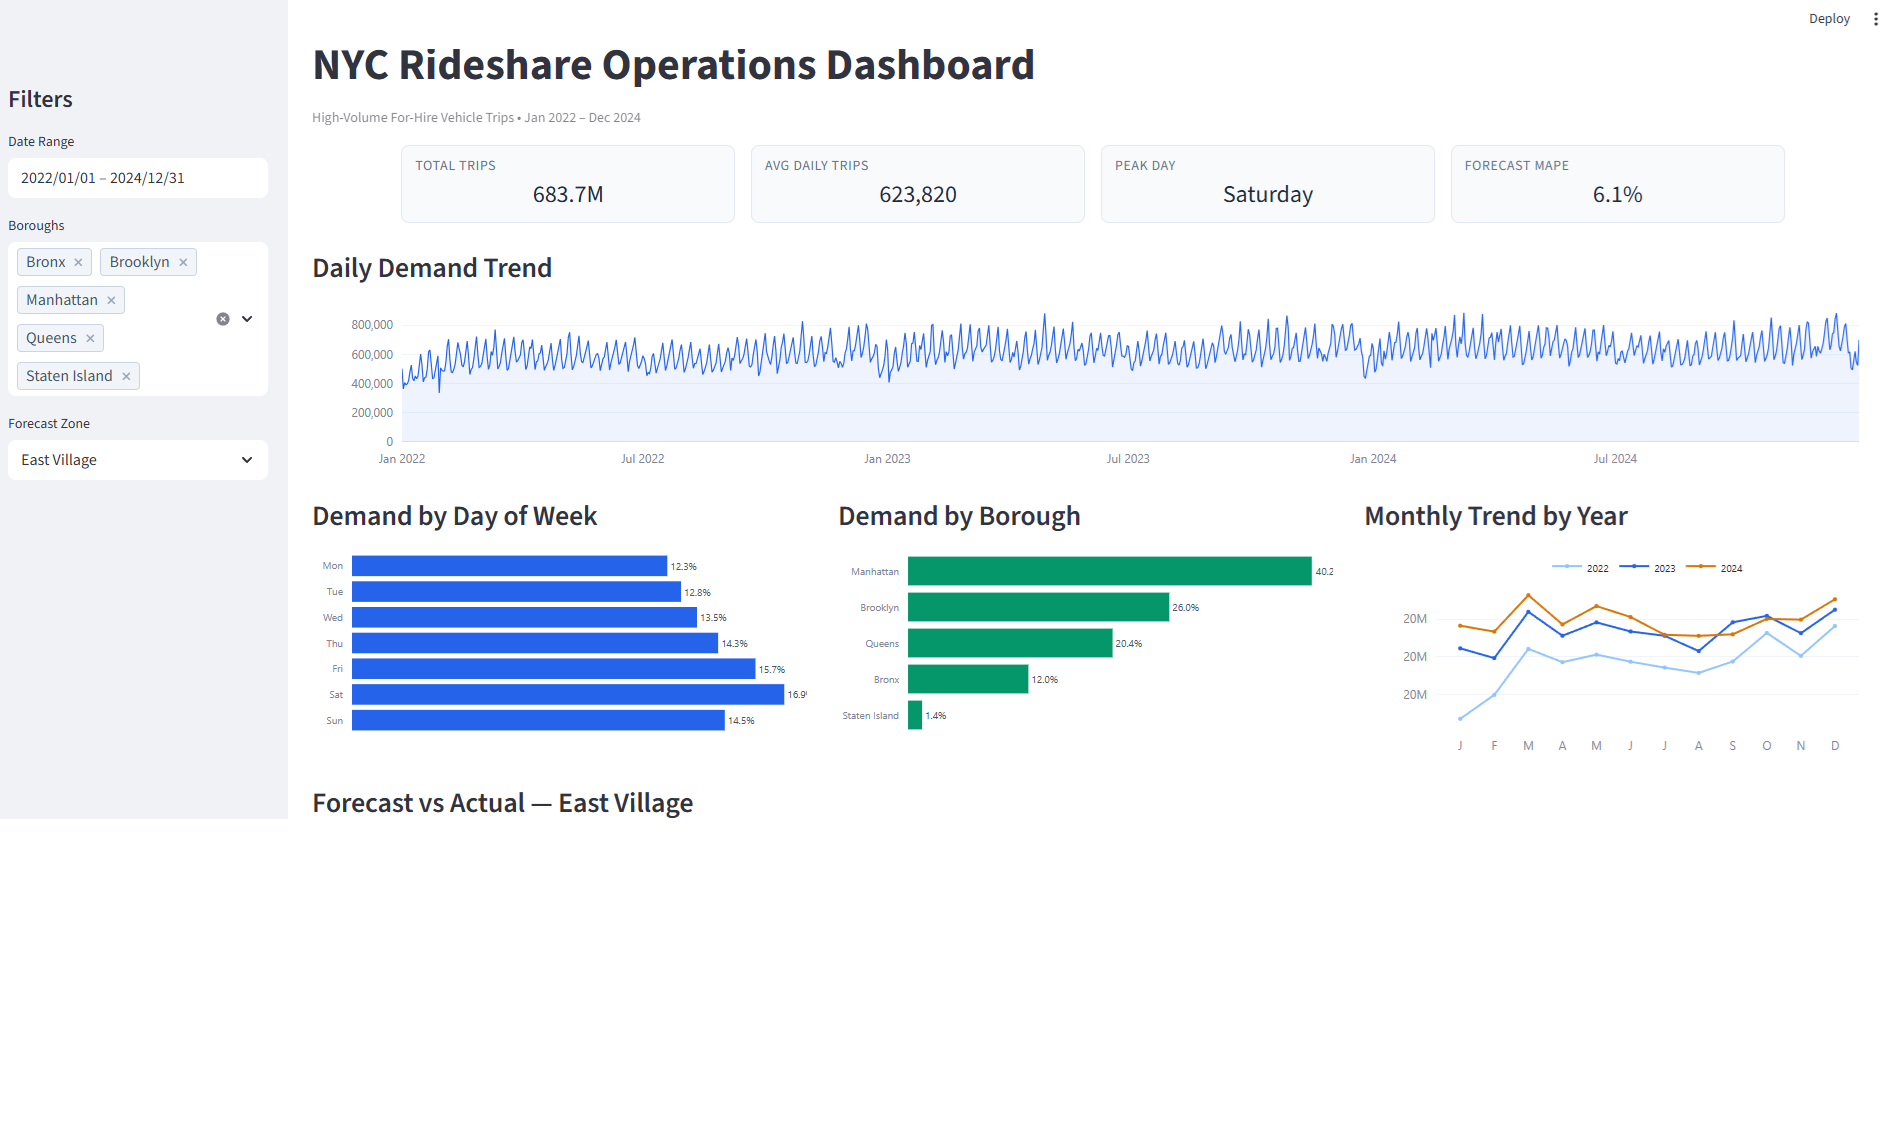
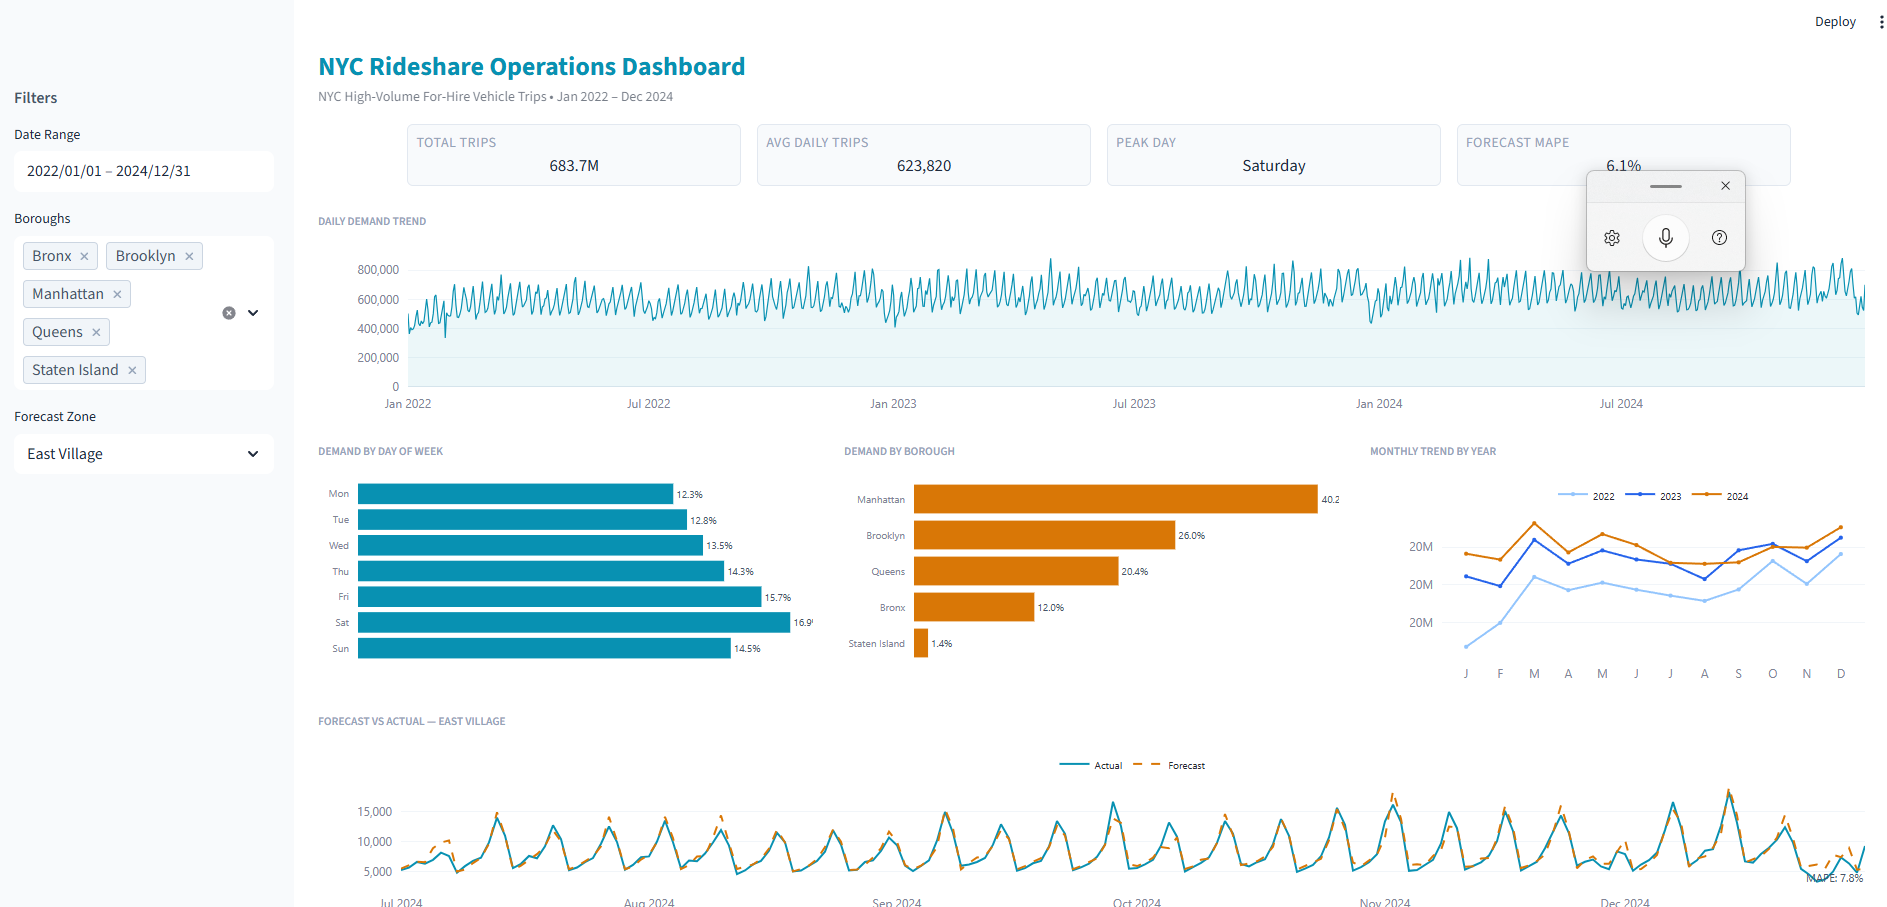
Added info for explorer app in readme

diff --git a/app/dashboard.py b/app/dashboard.py
@@ -21,6 +21,8 @@ st.set_page_config(
 # Color palette
 BLUE = "#2563EB"
 BLUE_LIGHT = "#93C5FD"
+TEAL = "#0891B2"
+TEAL_LIGHT = "#67E8F9"
 SLATE = "#475569"
 EMERALD = "#059669"
 AMBER = "#D97706"
@@ -28,17 +30,29 @@ AMBER = "#D97706"
 # Compact CSS for single-screen fit
 st.markdown(
     """<style>
-    .block-container {padding:0.8rem 1.5rem 0rem 1.5rem;}
-    h1 {margin:0 0 0.1rem 0; font-size:1.5rem; color:#1E293B;}
-    h3 {margin:0.3rem 0 0 0; font-size:0.85rem; color:#475569; font-weight:600;}
-    .stCaption {margin:0; padding:0;}
-    .stCaption p {color:#94A3B8; font-size:0.7rem;}
-    [data-testid="stMetric"] {
-        background:#F8FAFC; border:1px solid #E2E8F0; border-radius:8px;
-        padding:0.5rem 0.8rem; text-align:center;
+    .block-container {padding:0.8rem 1.5rem 0rem 1.5rem; padding-top:2.5rem;}
+    h2, h3 {
+        margin: 0.4rem 0 0 0;
+        font-size: 0.72rem !important;
+        color: #94A3B8 !important;
+        font-weight: 600;
+        text-transform: uppercase;
+        letter-spacing: 0.07em;
     }
-    [data-testid="stMetricValue"] {font-size:1.5rem; color:#1E293B; justify-content:center;}
-    [data-testid="stMetricLabel"] {font-size:0.7rem; color:#64748B; justify-content:center; text-transform:uppercase; letter-spacing:0.05em;}
+    section[data-testid="stSidebar"] h1 {font-size:1rem !important; color:#475569 !important;}
+    .stCaption {margin:0; padding:0;}
+    .stCaption p {
+        color: #94A3B8;
+        font-size: 0.7rem;
+        margin-top: 0.25rem;
+        margin-bottom: 0.4rem;
+    }
+    [data-testid="stMetric"] {
+        background:#F8FAFC; border:1px solid #E2E8F0; border-radius:6px;
+        padding:0.3rem 0.5rem; text-align:center;
+    }
+    [data-testid="stMetricValue"] {font-size:1.05rem !important; font-weight:400 !important; color:#1E293B !important; justify-content:center;}
+    [data-testid="stMetricLabel"] {font-size:0.6rem !important; color:#94A3B8 !important; justify-content:center; text-transform:uppercase; letter-spacing:0.05em;}
     [data-testid="stVerticalBlock"] > div {gap:0.3rem;}
     [data-testid="stHorizontalBlock"] > div {gap:0.5rem;}
     .element-container {margin-bottom:0 !important;}
@@ -128,8 +142,13 @@ filtered = zone_daily[mask]
 # ---------------------------------------------------------------------------
 # Header + KPIs
 # ---------------------------------------------------------------------------
-st.title("NYC Rideshare Operations Dashboard")
-st.caption(f"High-Volume For-Hire Vehicle Trips  \u2022  {start_date:%b %Y} \u2013 {end_date:%b %Y}")
+st.markdown(
+    '<p style="font-size:1.625rem; font-weight:700; color:#0891B2; '
+    'margin:0 0 0.1rem 0; line-height:1.4;">'
+    'NYC Rideshare Operations Dashboard</p>',
+    unsafe_allow_html=True,
+)
+st.caption(f"NYC High-Volume For-Hire Vehicle Trips  \u2022  {start_date:%b %Y} \u2013 {end_date:%b %Y}")
 
 daily_totals = filtered.groupby("date")["daily_trips"].sum()
 total_trips = filtered["daily_trips"].sum()
@@ -154,8 +173,8 @@ daily_ts.columns = ["date", "trips"]
 fig_trend = go.Figure()
 fig_trend.add_trace(go.Scatter(
     x=daily_ts["date"], y=daily_ts["trips"],
-    mode="lines", line=dict(color=BLUE, width=1.2),
-    fill="tozeroy", fillcolor="rgba(37,99,235,0.08)",
+    mode="lines", line=dict(color=TEAL, width=1.2),
+    fill="tozeroy", fillcolor="rgba(8,145,178,0.08)",
     hovertemplate="%{x|%b %d, %Y}<br>%{y:,.0f} trips<extra></extra>",
 ))
 fig_trend.update_layout(
@@ -189,7 +208,7 @@ with col_a:
         x=dow["trips"], y=dow["label"], orientation="h",
         text=dow["pct"].apply(lambda v: f"{v:.1f}%"),
         textposition="outside", textfont=dict(size=10, color=SLATE),
-        marker_color=BLUE,
+        marker_color=TEAL,
     ))
     fig_dow.update_layout(
         height=210, margin=CHART_MARGIN, font=CHART_FONT,
@@ -214,7 +233,7 @@ with col_b:
         x=borough_trips["trips"], y=borough_trips["borough"], orientation="h",
         text=borough_trips["pct"].apply(lambda v: f"{v:.1f}%"),
         textposition="outside", textfont=dict(size=10, color=SLATE),
-        marker_color=EMERALD,
+        marker_color=AMBER,
     ))
     fig_boro.update_layout(
         height=210, margin=CHART_MARGIN, font=CHART_FONT,
@@ -271,7 +290,7 @@ fig_fc = go.Figure()
 fig_fc.add_trace(go.Scatter(
     x=zone_fc["date"], y=zone_fc["actual"],
     name="Actual", mode="lines",
-    line=dict(color=BLUE, width=2),
+    line=dict(color=TEAL, width=2),
 ))
 fig_fc.add_trace(go.Scatter(
     x=zone_fc["date"], y=zone_fc["forecast"],

diff --git a/README.md b/README.md
@@ -24,7 +24,7 @@ The analysis follows a four-stage notebook pipeline.
 3. **Exploratory Analysis** — Examine demand patterns for seasonality, trend, and cross-zone correlation
 4. **Demand Forecasting** — Evaluate three models, select the best performer, scale model across selected zones
 
-The project also includes an interactive Streamlit dashboard showing KPIs, demand charts, and zone-level forecast accuracy (see [below](#streamlit-dashboard)).
+The project also includes two interactive Streamlit applications for visualizing results and exploring the full dataset (see [Interactive Apps](#interactive-apps)).
 
 ---
 
@@ -47,9 +47,13 @@ Model performance was evaluated using mean absolute percentage error (MAPE) for 
 
 ---
 
-## Streamlit Dashboard
+## Interactive Apps
 
-An interactive dashboard showing KPIs, demand charts, and zone-level forecast accuracy
+Two Streamlit applications provide different views into the dataset — one for communicating forecasting results, one for hands-on data exploration at scale.
+
+### Operations Dashboard
+
+An interactive dashboard showing KPIs, demand charts, and zone-level forecast accuracy.
 
 ![Operations Dashboard](images/dashboard_screenshot.png)
 
@@ -61,15 +65,16 @@ Run locally:
 
     streamlit run app/dashboard.py
 
----
+### SQL Explorer
 
-## SQL Explorer
+An interactive SQL-powered tool for querying all 684 million trip records directly from Parquet via DuckDB.
 
-An interactive SQL-powered data exploration tool for querying all 684 million trip records directly using DuckDB.
+![SQL Explorer](images/explorer_screenshot.png)
 
 - **Browse & Filter** — Explore raw trip records with date, borough, zone, company, and day-of-week filters
-- **Pre-Built Queries** — 16 analytical queries spanning aggregations, window functions, CTEs, JOINs, date/time analysis, and data quality checks — each with a "View SQL" expander showing the exact query
+- **Pre-Built Queries** — 16 analytical queries covering window functions, CTEs, JOINs, and date/time analysis — each with a "View SQL" expander showing the exact query
 - **Custom SQL** — Write and run your own SQL against the full dataset (with a row limit safeguard)
+- **Architecture** — Modular five-file design separating entry point, tab rendering, query definitions, shared utilities, and styling
 
 Run locally:
 
@@ -152,7 +157,7 @@ A detailed analysis report was created that identified the possible enhancements
 - One-day-ahead forecasting evaluated using temporal holdout validation
 - Transformations applied after appropriate temporal separation to prevent leakage
 - Notebook executes fully from top to bottom without hidden state
-- Streamlit dashboard built from saved model outputs
+- Streamlit apps built from saved model outputs and raw Parquet data
 
 ## References
 
